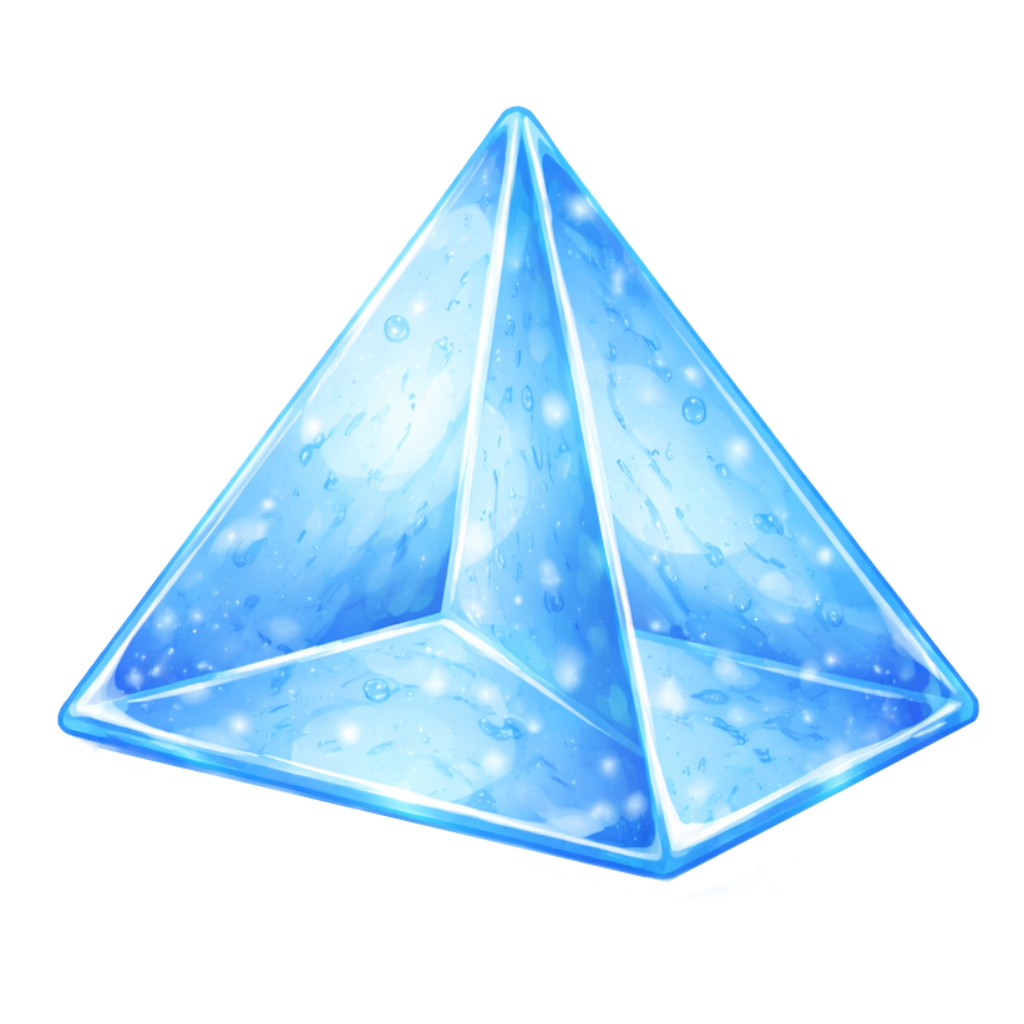
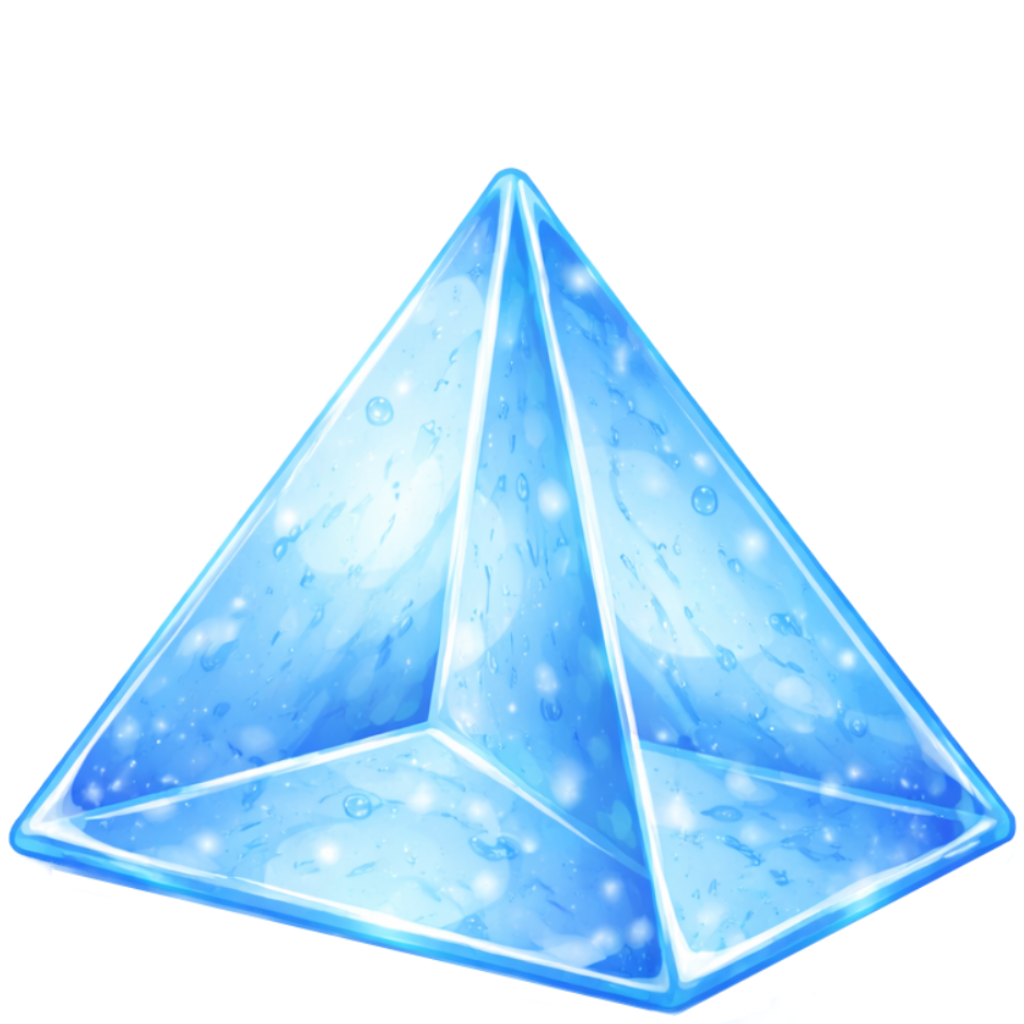
Site updated: 2026-01-25 21:20:19

diff --git a/2026/01/18/New-Blog/index.html b/2026/01/18/New-Blog/index.html
@@ -23,17 +23,17 @@
     
       
         
-          <link rel="shortcut icon" href="/images/ice_triangle2.png">
+          <link rel="shortcut icon" href="/images/ice_triangle.png">
         
       
       
         
-          <link rel="icon" type="image/png" href="/images/ice_triangle2.png" sizes="192x192">
+          <link rel="icon" type="image/png" href="/images/ice_triangle.png" sizes="192x192">
         
       
       
         
-          <link rel="apple-touch-icon" sizes="180x180" href="/images/ice_triangle2.png">
+          <link rel="apple-touch-icon" sizes="180x180" href="/images/ice_triangle.png">
         
       
     

diff --git a/2026/01/18/hello-world/index.html b/2026/01/18/hello-world/index.html
@@ -21,17 +21,17 @@
     
       
         
-          <link rel="shortcut icon" href="/images/ice_triangle2.png">
+          <link rel="shortcut icon" href="/images/ice_triangle.png">
         
       
       
         
-          <link rel="icon" type="image/png" href="/images/ice_triangle2.png" sizes="192x192">
+          <link rel="icon" type="image/png" href="/images/ice_triangle.png" sizes="192x192">
         
       
       
         
-          <link rel="apple-touch-icon" sizes="180x180" href="/images/ice_triangle2.png">
+          <link rel="apple-touch-icon" sizes="180x180" href="/images/ice_triangle.png">
         
       
     

diff --git a/404.html b/404.html
@@ -17,17 +17,17 @@
     
       
         
-          <link rel="shortcut icon" href="/images/ice_triangle2.png">
+          <link rel="shortcut icon" href="/images/ice_triangle.png">
         
       
       
         
-          <link rel="icon" type="image/png" href="/images/ice_triangle2.png" sizes="192x192">
+          <link rel="icon" type="image/png" href="/images/ice_triangle.png" sizes="192x192">
         
       
       
         
-          <link rel="apple-touch-icon" sizes="180x180" href="/images/ice_triangle2.png">
+          <link rel="apple-touch-icon" sizes="180x180" href="/images/ice_triangle.png">
         
       
     

diff --git a/archives/2026/01/index.html b/archives/2026/01/index.html
@@ -17,17 +17,17 @@
     
       
         
-          <link rel="shortcut icon" href="/images/ice_triangle2.png">
+          <link rel="shortcut icon" href="/images/ice_triangle.png">
         
       
       
         
-          <link rel="icon" type="image/png" href="/images/ice_triangle2.png" sizes="192x192">
+          <link rel="icon" type="image/png" href="/images/ice_triangle.png" sizes="192x192">
         
       
       
         
-          <link rel="apple-touch-icon" sizes="180x180" href="/images/ice_triangle2.png">
+          <link rel="apple-touch-icon" sizes="180x180" href="/images/ice_triangle.png">
         
       
     

diff --git a/archives/2026/index.html b/archives/2026/index.html
@@ -17,17 +17,17 @@
     
       
         
-          <link rel="shortcut icon" href="/images/ice_triangle2.png">
+          <link rel="shortcut icon" href="/images/ice_triangle.png">
         
       
       
         
-          <link rel="icon" type="image/png" href="/images/ice_triangle2.png" sizes="192x192">
+          <link rel="icon" type="image/png" href="/images/ice_triangle.png" sizes="192x192">
         
       
       
         
-          <link rel="apple-touch-icon" sizes="180x180" href="/images/ice_triangle2.png">
+          <link rel="apple-touch-icon" sizes="180x180" href="/images/ice_triangle.png">
         
       
     

diff --git a/archives/index.html b/archives/index.html
@@ -17,17 +17,17 @@
     
       
         
-          <link rel="shortcut icon" href="/images/ice_triangle2.png">
+          <link rel="shortcut icon" href="/images/ice_triangle.png">
         
       
       
         
-          <link rel="icon" type="image/png" href="/images/ice_triangle2.png" sizes="192x192">
+          <link rel="icon" type="image/png" href="/images/ice_triangle.png" sizes="192x192">
         
       
       
         
-          <link rel="apple-touch-icon" sizes="180x180" href="/images/ice_triangle2.png">
+          <link rel="apple-touch-icon" sizes="180x180" href="/images/ice_triangle.png">
         
       
     

diff --git a/categories/index.html b/categories/index.html
@@ -19,17 +19,17 @@
     
       
         
-          <link rel="shortcut icon" href="/images/ice_triangle2.png">
+          <link rel="shortcut icon" href="/images/ice_triangle.png">
         
       
       
         
-          <link rel="icon" type="image/png" href="/images/ice_triangle2.png" sizes="192x192">
+          <link rel="icon" type="image/png" href="/images/ice_triangle.png" sizes="192x192">
         
       
       
         
-          <link rel="apple-touch-icon" sizes="180x180" href="/images/ice_triangle2.png">
+          <link rel="apple-touch-icon" sizes="180x180" href="/images/ice_triangle.png">
         
       
     

diff --git a/categories/uncategorized/index.html b/categories/uncategorized/index.html
@@ -17,17 +17,17 @@
     
       
         
-          <link rel="shortcut icon" href="/images/ice_triangle2.png">
+          <link rel="shortcut icon" href="/images/ice_triangle.png">
         
       
       
         
-          <link rel="icon" type="image/png" href="/images/ice_triangle2.png" sizes="192x192">
+          <link rel="icon" type="image/png" href="/images/ice_triangle.png" sizes="192x192">
         
       
       
         
-          <link rel="apple-touch-icon" sizes="180x180" href="/images/ice_triangle2.png">
+          <link rel="apple-touch-icon" sizes="180x180" href="/images/ice_triangle.png">
         
       
     

diff --git a/index.html b/index.html
@@ -17,17 +17,17 @@
     
       
         
-          <link rel="shortcut icon" href="/images/ice_triangle2.png">
+          <link rel="shortcut icon" href="/images/ice_triangle.png">
         
       
       
         
-          <link rel="icon" type="image/png" href="/images/ice_triangle2.png" sizes="192x192">
+          <link rel="icon" type="image/png" href="/images/ice_triangle.png" sizes="192x192">
         
       
       
         
-          <link rel="apple-touch-icon" sizes="180x180" href="/images/ice_triangle2.png">
+          <link rel="apple-touch-icon" sizes="180x180" href="/images/ice_triangle.png">
         
       
     

diff --git a/search/index.html b/search/index.html
@@ -19,17 +19,17 @@
     
       
         
-          <link rel="shortcut icon" href="/images/ice_triangle2.png">
+          <link rel="shortcut icon" href="/images/ice_triangle.png">
         
       
       
         
-          <link rel="icon" type="image/png" href="/images/ice_triangle2.png" sizes="192x192">
+          <link rel="icon" type="image/png" href="/images/ice_triangle.png" sizes="192x192">
         
       
       
         
-          <link rel="apple-touch-icon" sizes="180x180" href="/images/ice_triangle2.png">
+          <link rel="apple-touch-icon" sizes="180x180" href="/images/ice_triangle.png">
         
       
     

diff --git a/tags/index.html b/tags/index.html
@@ -19,17 +19,17 @@
     
       
         
-          <link rel="shortcut icon" href="/images/ice_triangle2.png">
+          <link rel="shortcut icon" href="/images/ice_triangle.png">
         
       
       
         
-          <link rel="icon" type="image/png" href="/images/ice_triangle2.png" sizes="192x192">
+          <link rel="icon" type="image/png" href="/images/ice_triangle.png" sizes="192x192">
         
       
       
         
-          <link rel="apple-touch-icon" sizes="180x180" href="/images/ice_triangle2.png">
+          <link rel="apple-touch-icon" sizes="180x180" href="/images/ice_triangle.png">
         
       
     

diff --git a/tags/random/index.html b/tags/random/index.html
@@ -17,17 +17,17 @@
     
       
         
-          <link rel="shortcut icon" href="/images/ice_triangle2.png">
+          <link rel="shortcut icon" href="/images/ice_triangle.png">
         
       
       
         
-          <link rel="icon" type="image/png" href="/images/ice_triangle2.png" sizes="192x192">
+          <link rel="icon" type="image/png" href="/images/ice_triangle.png" sizes="192x192">
         
       
       
         
-          <link rel="apple-touch-icon" sizes="180x180" href="/images/ice_triangle2.png">
+          <link rel="apple-touch-icon" sizes="180x180" href="/images/ice_triangle.png">
         
       
     
